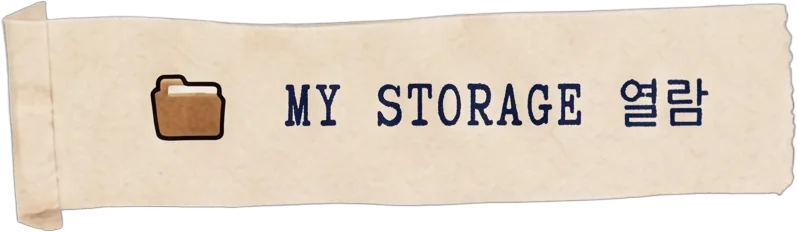
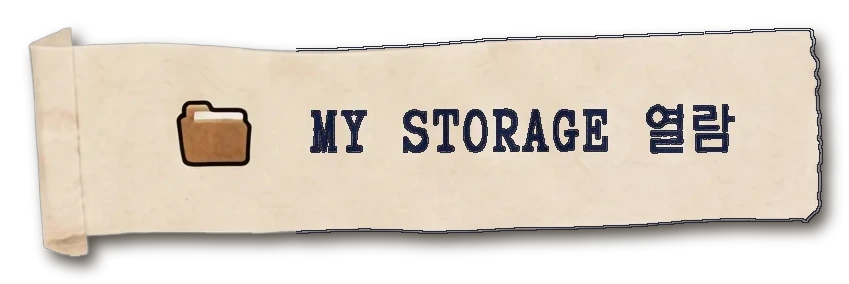
Bold MY STORAGE button text, add press feedback, nudge report button
- Rebuild myprofile_mystorage_button.webp with bold text (folder icon
  untouched) and a drop shadow that follows the tape's own torn
  silhouette instead of a mismatched rectangle.
- Add a quick scale+shift :active state so the button visibly
  depresses on tap.
- Nudge MY STORAGE's "최종보고서 열람" button down a touch.

Claude-Session: https://claude.ai/code/session_01JNSv2zALJDpwVya8qsmDtn

Changed region(s): [[0.0, 0.0, 1.0, 0.9957], [0.3312, 0.3319, 0.9034, 0.5733], [0.1807, 0.3017, 0.3011, 0.6336]]

diff --git a/index.html b/index.html
@@ -538,7 +538,7 @@ body{font-family:'Share Tech Mono',monospace;background:#0a0a0a;color:#c8c8c0;mi
 #s6 .report-nav-btn{
   background:url('assets/report_view_btn.webp') center/100% 100% no-repeat;
   border:none;color:transparent;aspect-ratio:880/220;height:auto;max-width:220px;
-  width:100%;margin:2px auto 4px;display:block;padding:0;
+  width:100%;margin:6px auto 4px;display:block;padding:0;
 }
 
 /* ---- S4: 프로필/메시지 ---- */
@@ -595,8 +595,12 @@ body{font-family:'Share Tech Mono',monospace;background:#0a0a0a;color:#c8c8c0;mi
 #s4 .storage-bottom-btn{
   background:url('assets/myprofile_mystorage_button.webp') center/100% 100% no-repeat;
   border:none;color:transparent;
-  display:block;width:52%;aspect-ratio:797/232;height:auto;
+  display:block;width:55%;aspect-ratio:849/284;height:auto;
   margin:4px 0 0 auto;
+  transition:transform 0.08s ease;
+}
+#s4 .storage-bottom-btn:active{
+  transform:scale(0.96) translateY(2px);
 }
 
 /* ---- 코드 입력 모달 (비밀번호창, 종이 테마) ---- */
